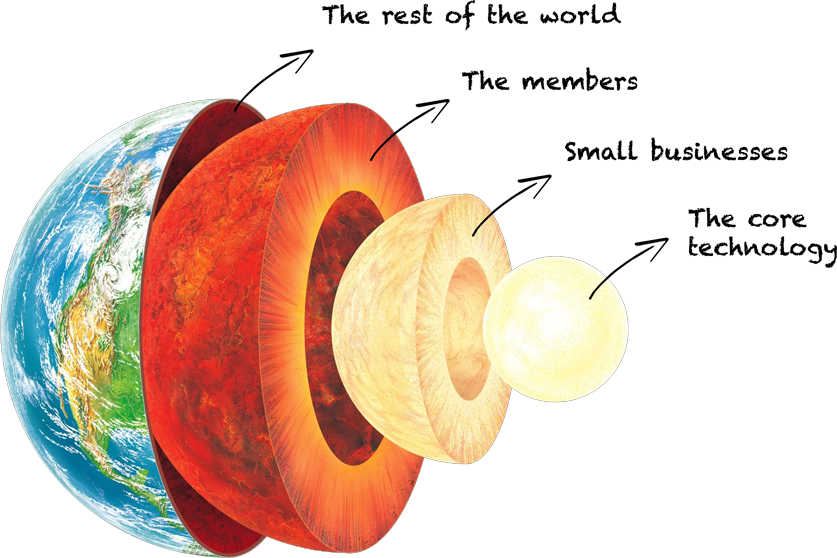
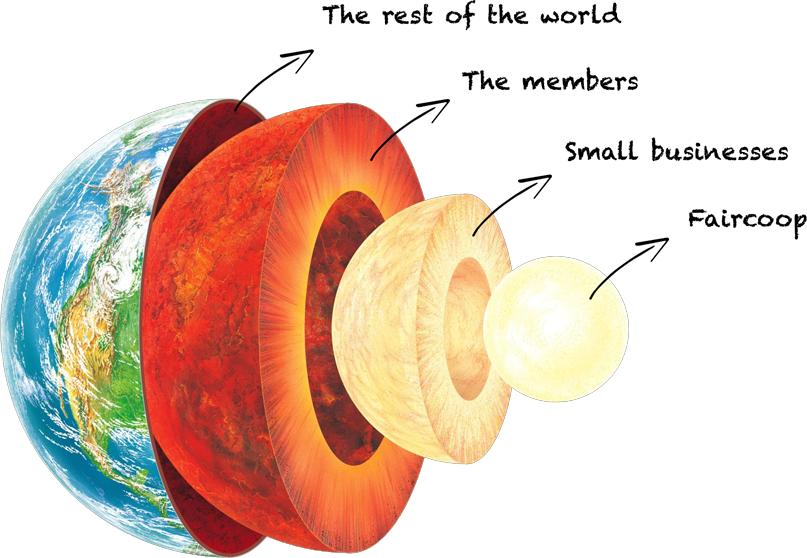
text changes
addition of faircoop

diff --git a/why.html b/why.html
@@ -111,8 +111,8 @@
 
 						<p><img class=img-responsive src="images/ecosystem.png"> </img></p>
 
-						<p><b>The core technology</b></p>
-						<p>At the heart of the system is blockchain technology. This is a tried and tested system that allows FairCoin to be transferred from point A to point B. This system is maintained by members.</p>
+						<p><b>Faircoop</b></p>
+						<p>At the heart of the system is Faircoop, which maintains the blockchain as well as funds many of the small business initiatives. Faircoop is basically a pool of FairCoin members that are cooperatively minded and want to see this movement help the greater good. As a pool, this group has a sizeable chunk of faircoins, which become valuable as the project succeeds.</p>
 
 						<p><b>Small businesses</b></p>
 						<p>The community of businesses that help provide value to the entire ecosystem. They use FairCoin as their currency.</p>
@@ -121,7 +121,11 @@
 						<p>All of us that use FairCoin and are all shareholders.</p>
 
 						<p><b>Explanation</b></p>
-						<p>The businesses on top of FairCoin help increase its overall functional value. This in-turn, increases the price value of each FairCoin. Increase in price means that all of the members profit. Therefore, the members have an incentive to help support the businesses that use FairCoin. The businesses are run by members who also have FairCoin and therefore are incentivized to help other FairCoin businesses succeed. This should eventually translate to a much greater value for the member who holds a currency that steadily and appreciates in value.
+						<p>The businesses on top of FairCoin (run by members) help increase its overall functional value. This in-turn, increases the price value of each FairCoin. Increase in price means that all of the members profit. Therefore, the members have an incentive to help support the businesses that use FairCoin.
+
+						<p>Faircoop invests the profits from the price increase, back into funding companies that help the ecosystem. From sustainable farming initiatives to businesses that help strengthen the faircoin infrastructure (ATM machine, remittance services etc.)</p>
+
+						<p>Since the businesses are run by FairCoin shareholders (members), they are incentivized to help other businesses within this ecosystem succeed. This should eventually translate to a much greater value for the member who holds a currency that steadily and appreciates in value. It is basically a fully functioning cycle that feeds into itself, creating a self-fulfilling prophecy where everyone part of the system wins.</p>
 
 						<p>Ever use an ATM machine with zero fees?</p>
 
